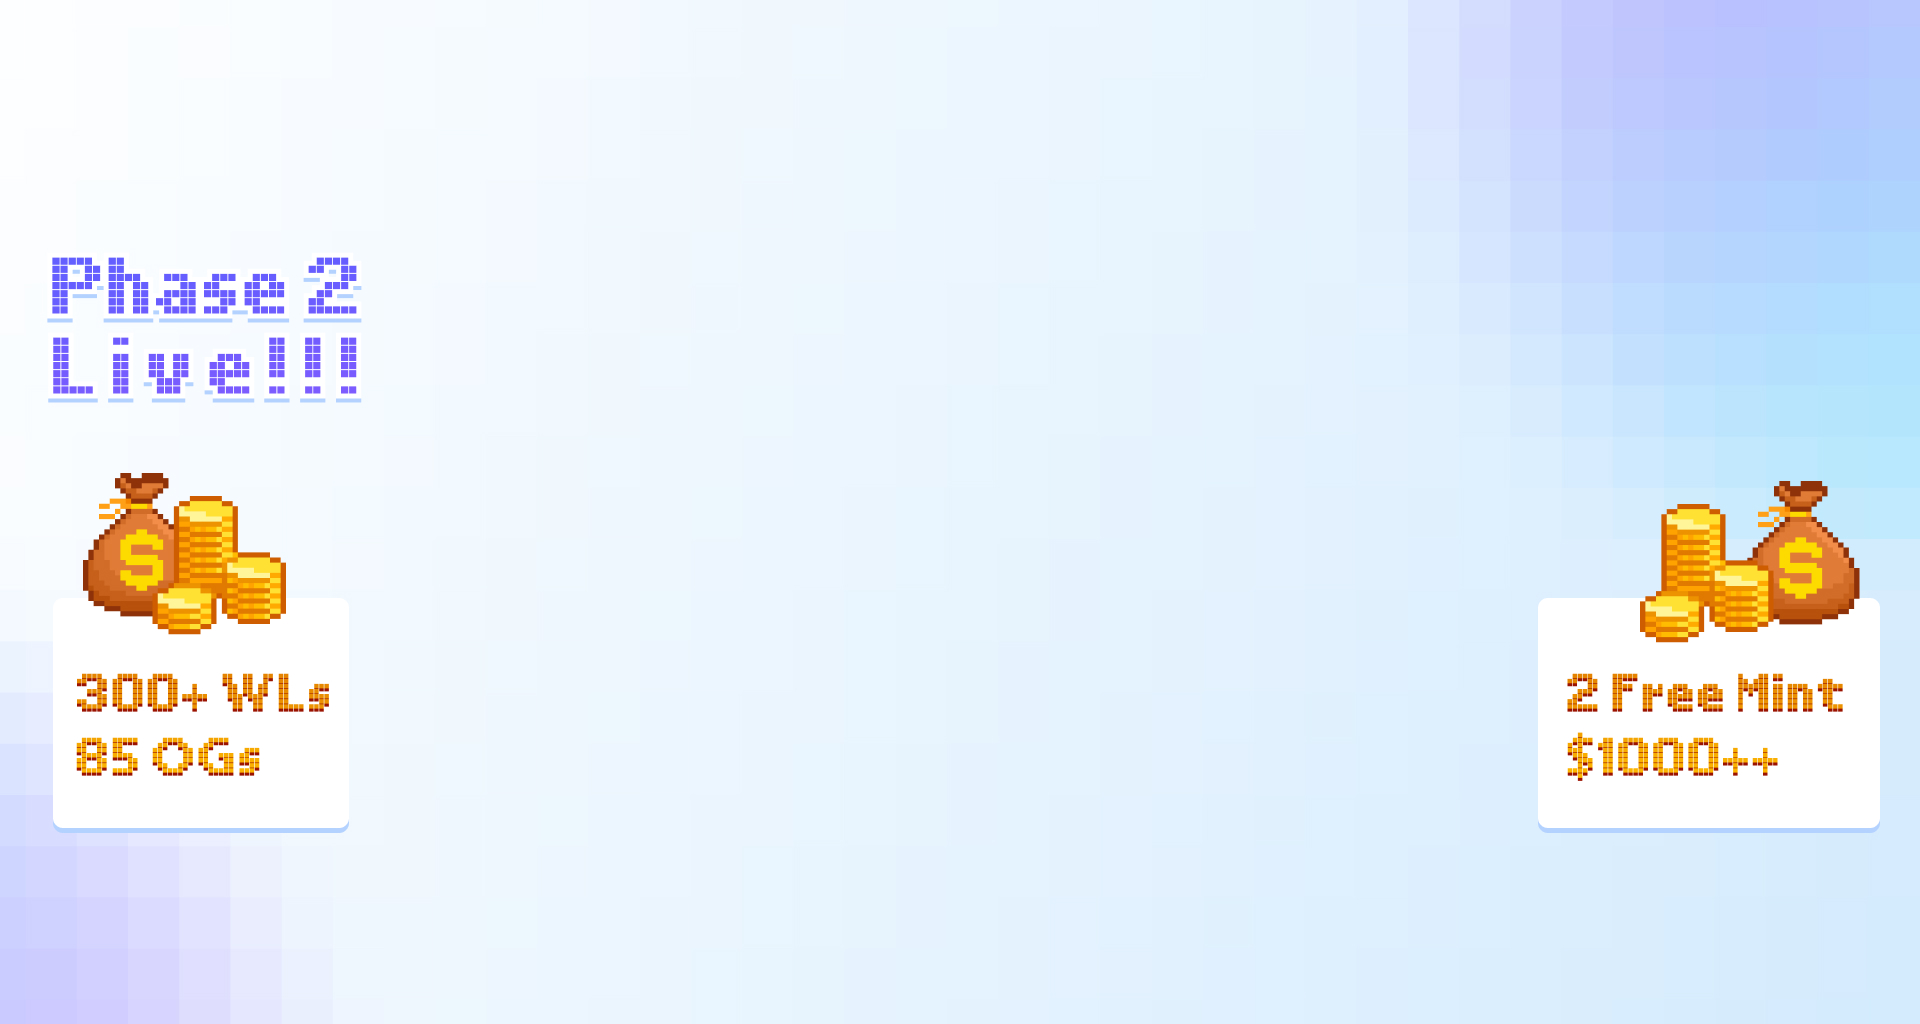
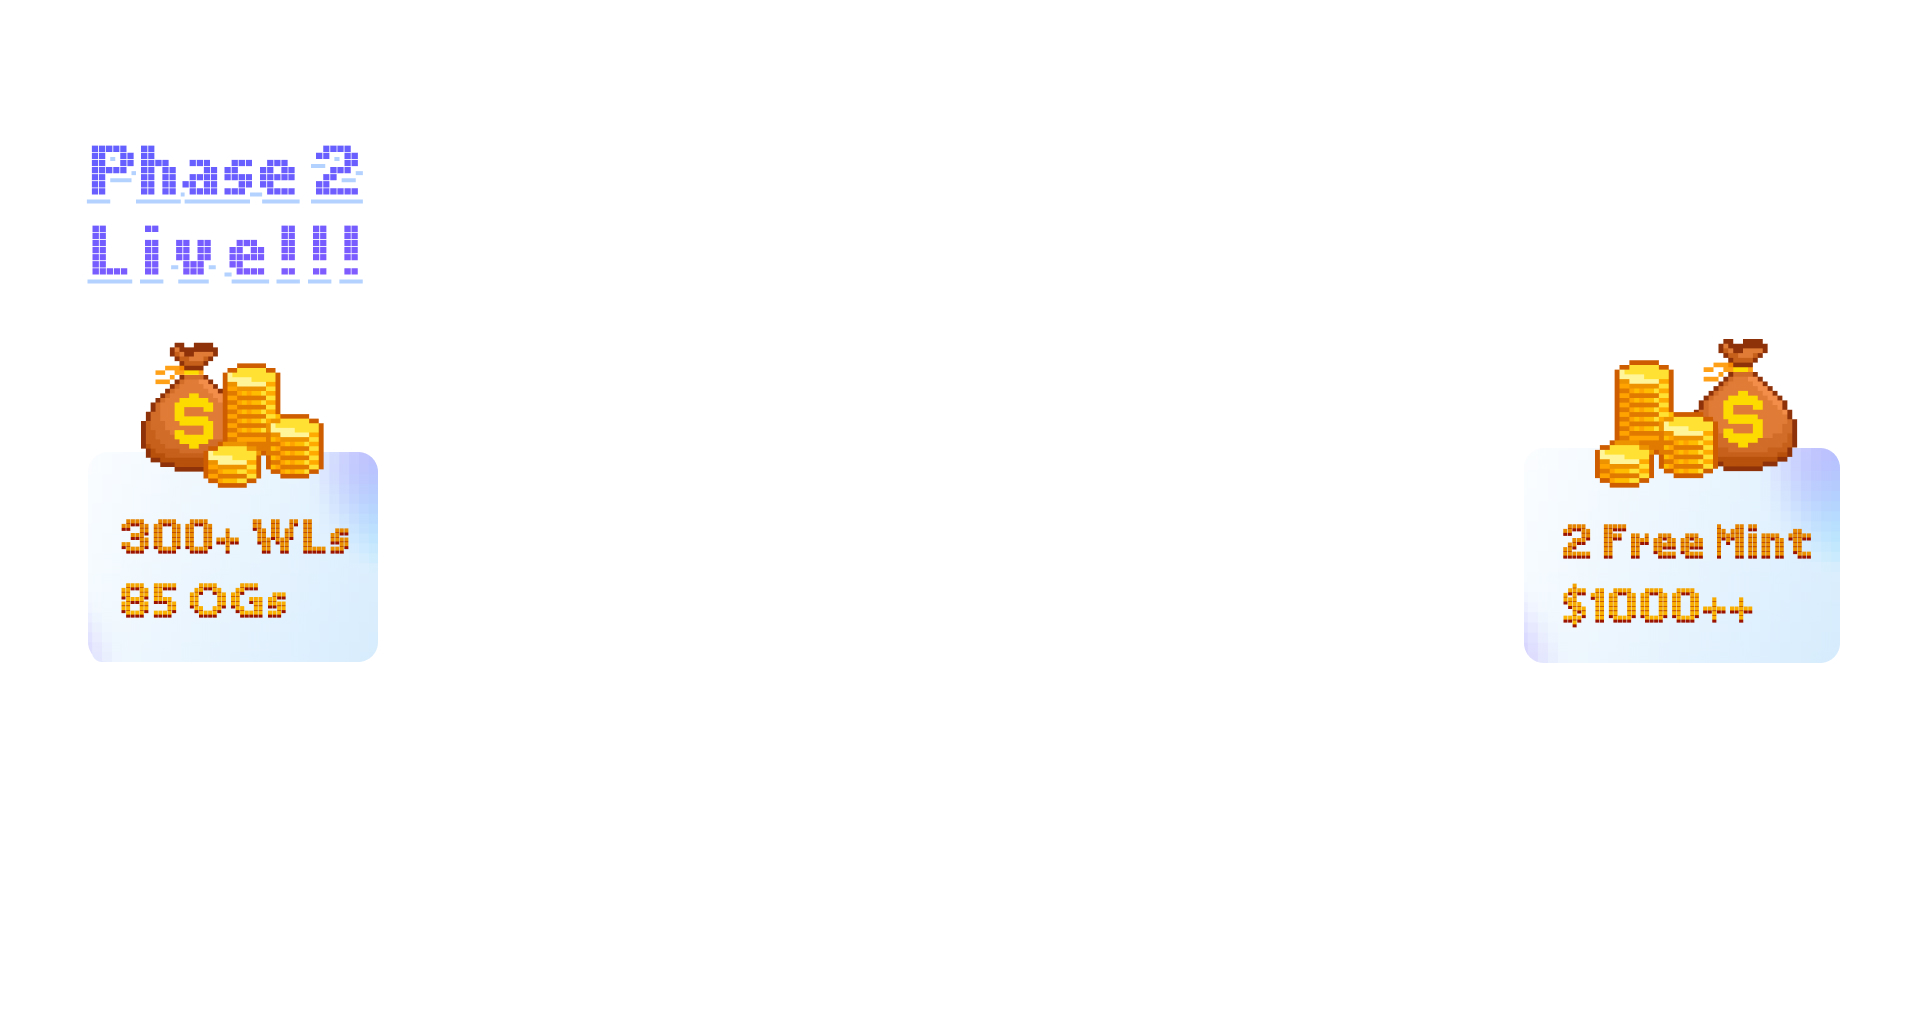
Add background 2

diff --git a/resources/public/pebble_templates/index.html b/resources/public/pebble_templates/index.html
@@ -27,7 +27,7 @@
 
     {{head}}
 </head>
-<body class="show-placeable-bubble" style="background: url('/images/background.jpg'); background-size: cover;">
+<body class="show-placeable-bubble" style="background: url('/images/background.jpg'); background-size: contain; background-position: center; background-color: white">
 <header class="transparent controls">
     <div class="left">
         <button type="button" class="panel-trigger" data-panel="info">
